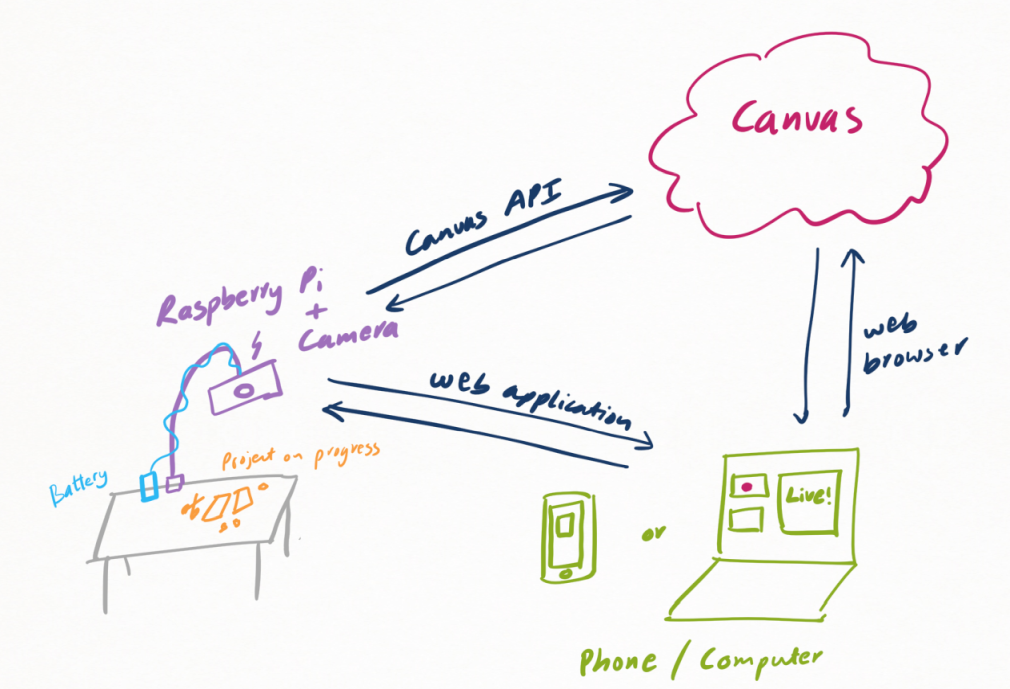
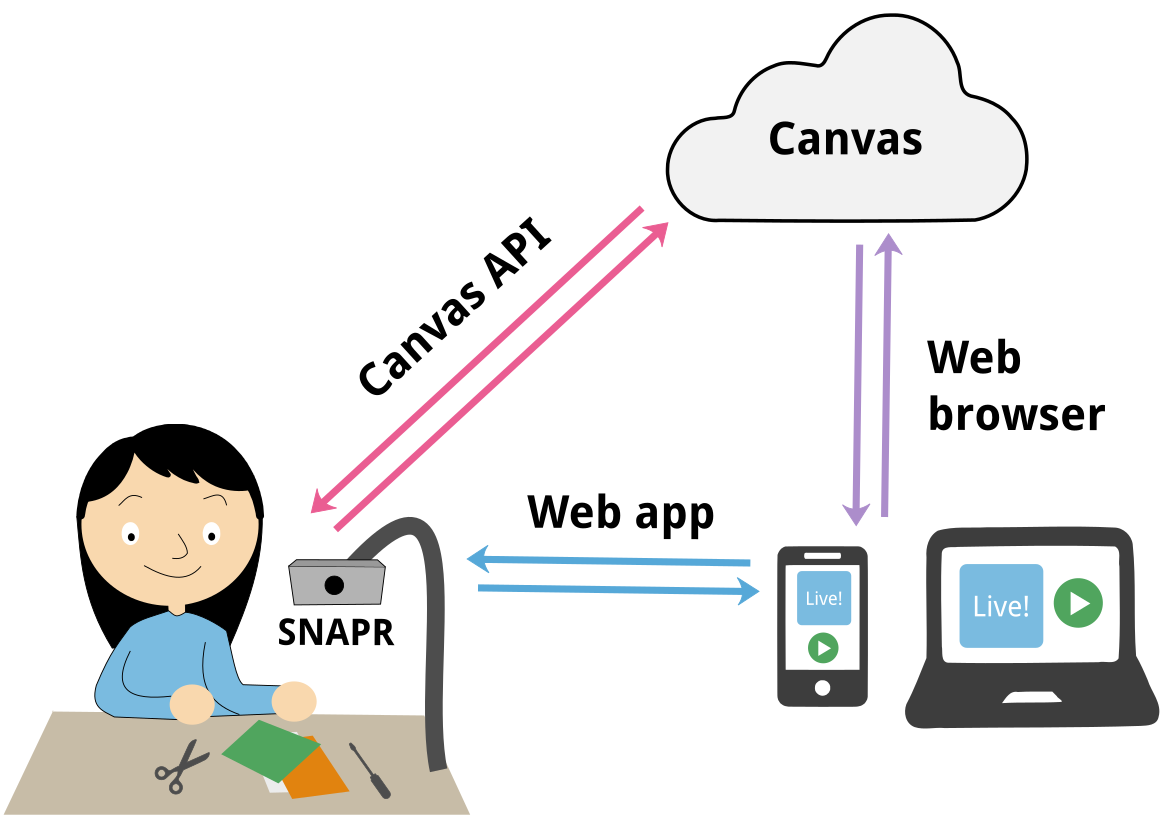
Added new how it works image

diff --git a/README.md b/README.md
@@ -151,3 +151,5 @@ In order to minimize this limitation, we designed SNAPR which lets the students 
 You can modify SNAPR to suit your own documentation needs by editing the code on github. We are experimenting with **Jupyter Notebook** to create tutorials that will help you understand the code and allow you to make changes to the code according to your requirement. 
 
 Additionally, you can use **OpenCV** to make SNAPR a smart camera system. For instance, you could use OpenCV’s face recognition capabilities to capture images and upload images of your work directly to a page on Canvas or create a camera that tracks an object of interest while you are working on your desk.  
+
+![SNAPR poster](images/SNAPR-details3.jpg)
